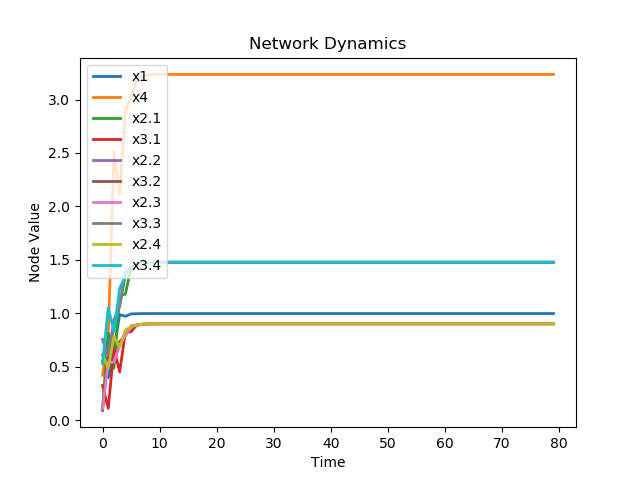
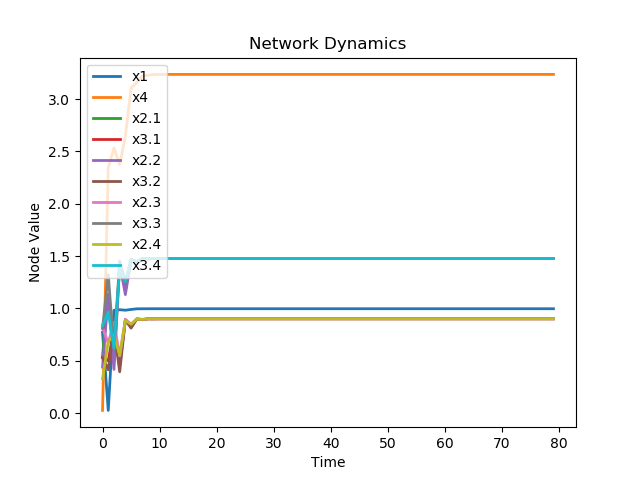
fixed detect sync by changing break to continue

diff --git a/code/specializer.py b/code/specializer.py
@@ -272,7 +272,6 @@ class DirectedGraph:
         for path in pressed_paths:
             components = [comp[k] for k in path]
             paths = self._path_combinations(components)
-            # print(f'this is after path combinations\n{paths}\n')
 
             comp_to_add = [self.A[[self.indexer[k] for k in c], :][:, [self.indexer[k] for k in c]] for c in components[1:-1]].copy()
             for p in paths:
@@ -505,7 +504,9 @@ class DirectedGraph:
         n_nodes = 1
 
         for i in range(path_length - 1):
-            rows, cols = np.where(self.A[[self.indexer[k] for k in components[i+1]],:][:,[self.indexer[k] for k in components[i]]] == 1)
+            _i = [self.indexer[k] for k in components[i+1]]
+            _j = [self.indexer[k] for k in components[i]]
+            rows, cols = np.where(self.A[_i,:][:,_j] == 1)
 
             if i == 0:
                 cols += [self.indexer[k] for k in components[0]]
@@ -692,14 +693,19 @@ class DirectedGraph:
 
         for node in range(n):
             if node in sync_nodes:
-                break
+                continue
             else:
                 # sync_ind is a list of nodes synchronized with 'node'
-                sync_ind = list(np.where(np.all(np.isclose((A.T - A[:, node]).T, 0, atol=sync_tol), axis=0))[0])
+                _A = (A.T - A[:, node]).T
+                ind = np.where(np.all(np.isclose(_A, 0, atol=sync_tol), axis=0))[0]
+                sync_ind = list(ind)
                 # track which nodes have already synchronized so we don't
                 # double check
-                sync_nodes.extend(sync_ind)
+                sync_nodes.extend(np.ravel(sync_ind))
                 # track communities of synchronization
-                sync_communities.append((tuple(map(lambda x: self.labeler[x], sync_ind)), np.all(np.isclose(A[:, node] - A[-1, node], 0, atol=otol))))
+                maping_func = lambda x: self.labeler[x]
+                sync_tup = tuple(map(maping_func, sync_ind))
+                is_conv = np.all(np.isclose(A[:, node] - A[-1, node], 0, atol=otol))
+                sync_communities.append((sync_tup, is_conv))
 
         return sync_communities

diff --git a/code/workbook.py b/code/workbook.py
@@ -79,13 +79,13 @@ if __name__ == "__main__":
 
     G.specialize(['x1', 'x2'], verbose=False)
     # G.iterate_with_perterbations(1000, np.random.random(G.n), ([500], 150), graph=True, save_img=False, title="3 nodes")
-    G.iterate(80, np.random.random(G.n), graph=True, save_img=True, title='spec on x1, x2')
+    G.iterate(80, np.random.random(G.n), graph=True, save_img=True, title='../graphs/spec on x1, x2')
     print(G.eigen_centrality(), '\n')
     print(G.detect_sync(), '\n')
 
     G.specialize(['x2', 'x3.1', 'x3.2'], verbose=False)
     # G.iterate_with_perterbations(1000, np.random.random(G.n), ([500], 150), graph=True, save_img=False, title="3 nodes")
-    G.iterate(80, np.random.random(G.n)*10, graph=True, save_img=True, title='spec on x2, x31, x32')
+    G.iterate(80, np.random.random(G.n)*10, graph=True, save_img=True, title='../graphs/spec on x2, x31, x32')
     print(G.eigen_centrality(), '\n')
     print(G.detect_sync(), '\n')
 

diff --git a/code/workbook3.py b/code/workbook3.py
@@ -16,10 +16,12 @@ if __name__ == "__main__":
         [0,1,1,0]
     ])
     labelsA = ['x1','x2','x3','x4']
+
     def sig(x):
         return anp.tanh(x)
     def zero(x):
         return 0*x
+
     f = np.array([
         [zero,zero,zero,sig],
         [sig,zero,sig,zero],
@@ -33,7 +35,5 @@ if __name__ == "__main__":
     G.specialize(['x1','x4'])
     G.iterate(80, np.random.random(G.n), graph=True, save_img=True, title="../graphs/test_simple_spec1")
     print(G.eigen_centrality())
-    print(G.A)
-    print(G.labeler)
     print(G.spectral_radius())
     print(G.detect_sync())
